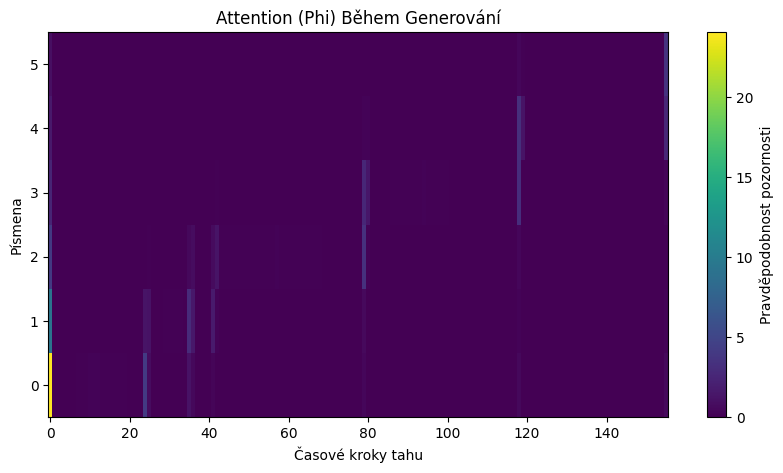
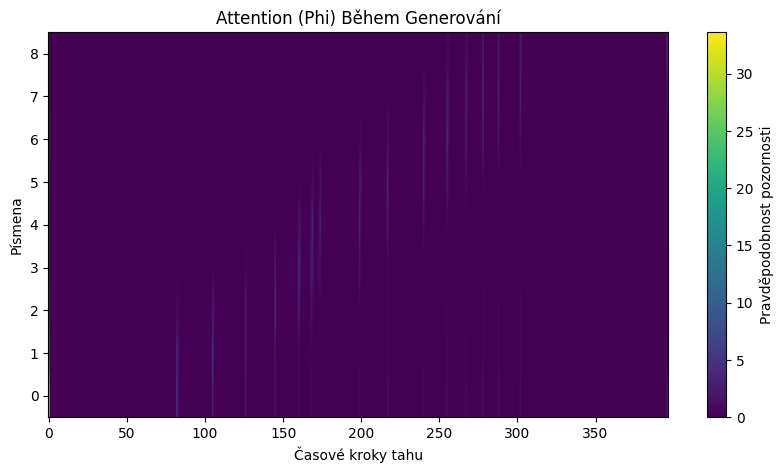
fix: update word spacing logic to prevent character overlap by tracking max x-offset

diff --git a/generate.py b/generate.py
@@ -137,11 +137,14 @@ def generate_handwriting(text, model_path="handwriting_model_epoch_40.pt", norm_
                 x_t[0, 2] = eos
 
         # Posun aktuálního slova doprava a napojení do hlavního plátna
+        max_x = global_x_offset
         for pt in generated_points:
             pt[0] += global_x_offset
+            if pt[0] > max_x:
+                max_x = pt[0]
             all_generated_points.append(pt)
             
-        global_x_offset += abs_x + 50.0 # Mezera mezi slovy
+        global_x_offset = max_x + 50.0 # Mezera mezi slovy zaručující nulový překryv
         # Zdvihnout pero mezi slovy
         all_generated_points.append([global_x_offset, 0.0, 1.0])
 
